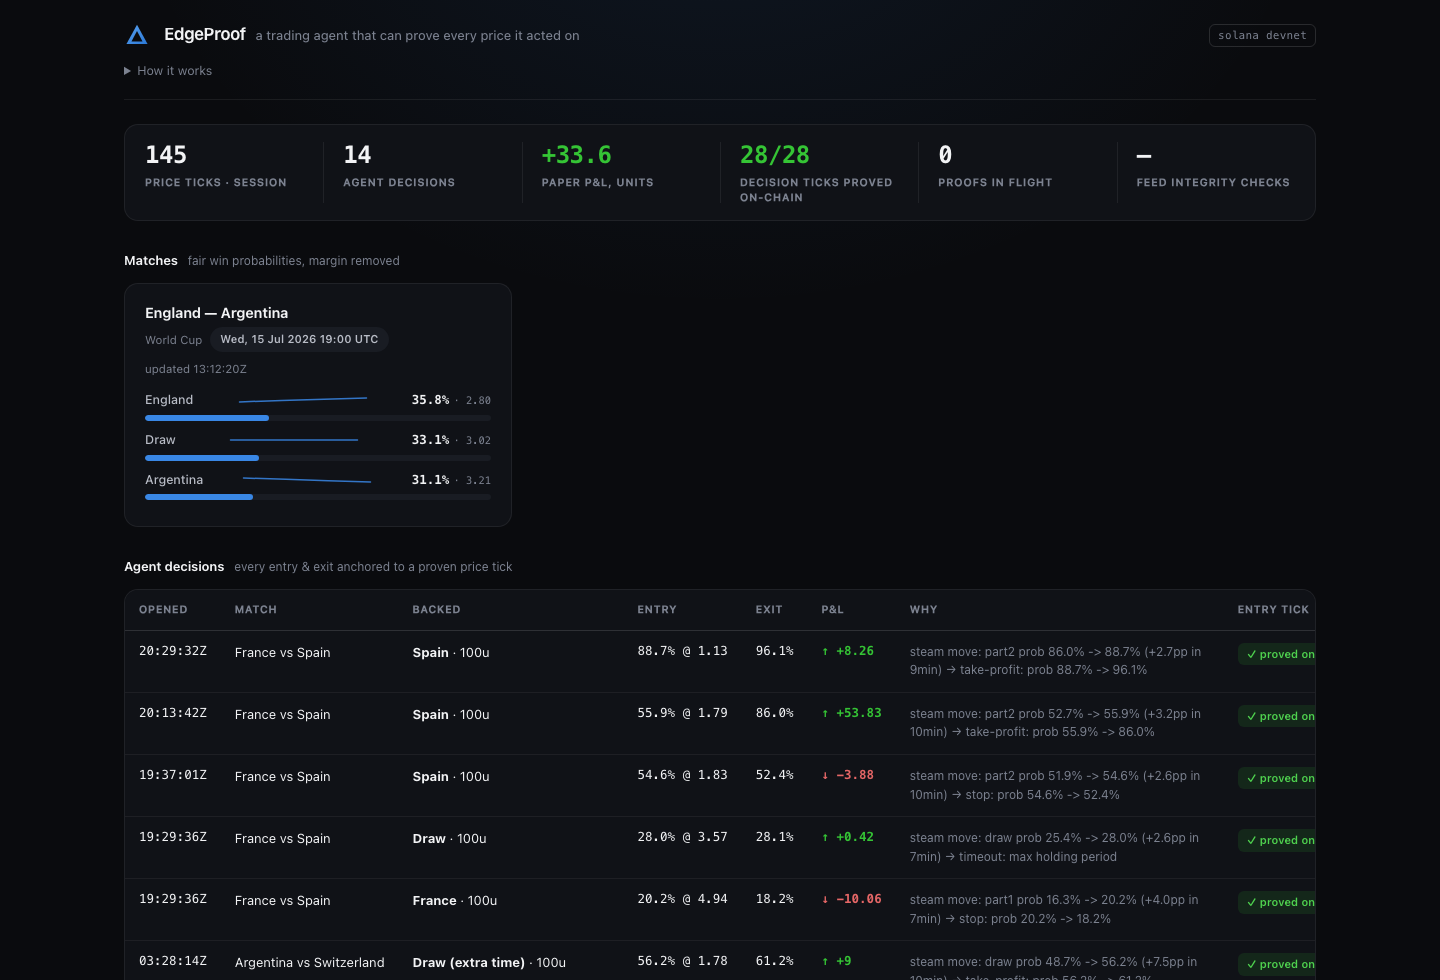
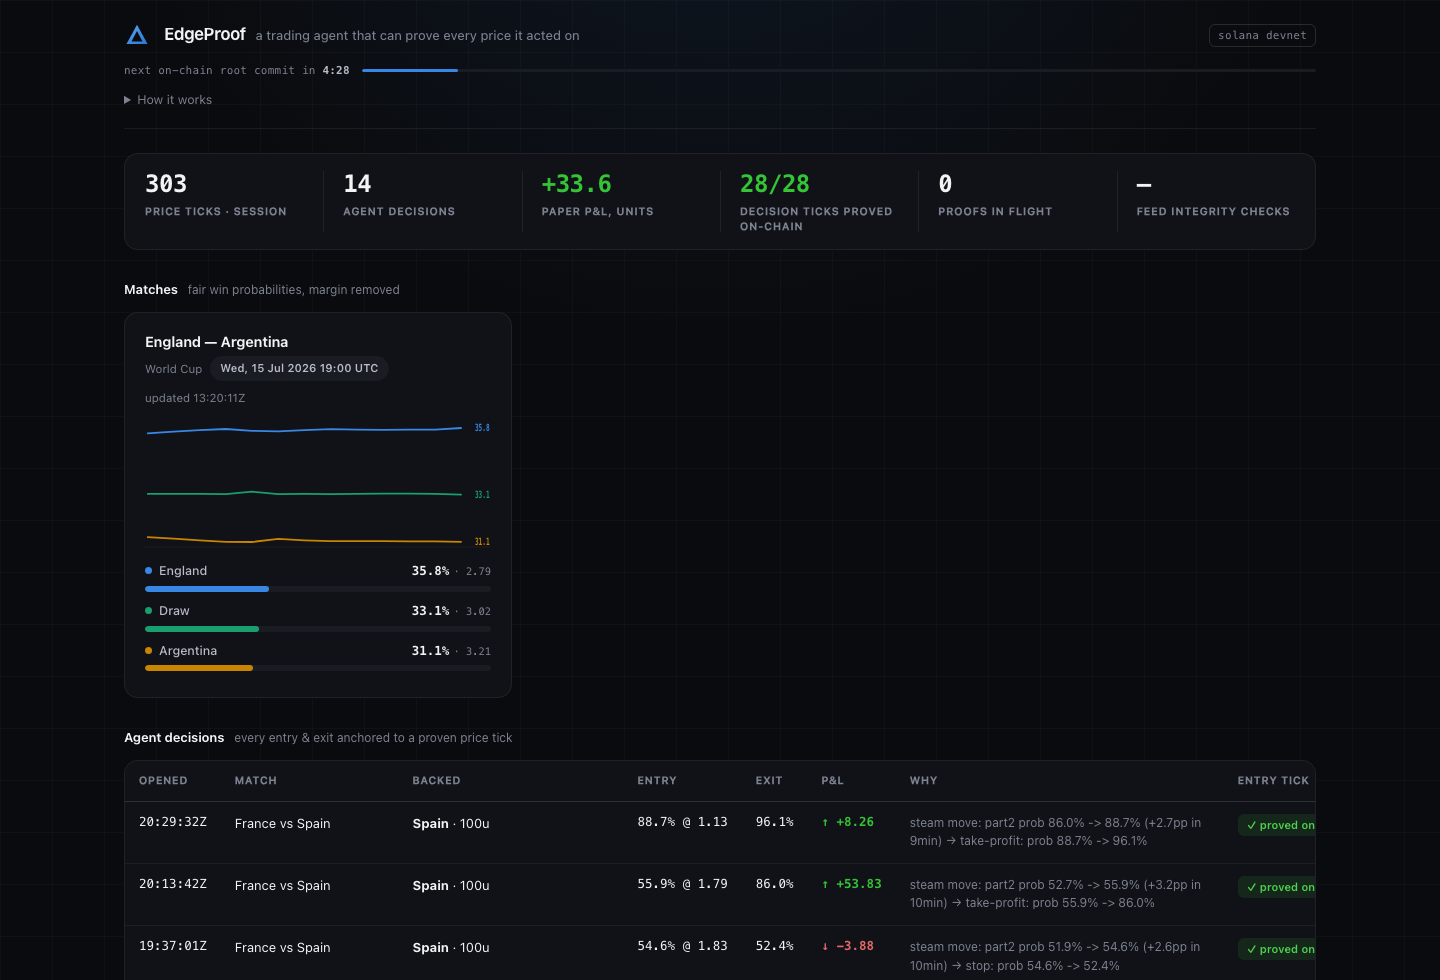
Design: Merkle-interval heartbeat, multi-line probability chart, categorical outcome colors, grid texture

diff --git a/public/index.html b/public/index.html
@@ -26,7 +26,9 @@
     --warn-chip: #8a6002;
     --down: #c53030;
     --down-chip-bg: rgba(208, 59, 59, 0.10);
+    --s1: #2a78d6; --s2: #1baf7a; --s3: #eda100;
     --glow: transparent;
+    --gridline: rgba(11, 11, 11, 0.028);
     --shadow: 0 1px 2px rgba(11,11,11,.04), 0 8px 24px -12px rgba(11,11,11,.10);
     --mono: ui-monospace, "SF Mono", SFMono-Regular, Menlo, Consolas, monospace;
     --sans: -apple-system, BlinkMacSystemFont, "Segoe UI", Inter, system-ui, sans-serif;
@@ -52,7 +54,9 @@
       --warn-chip: #fab219;
       --down: #e66767;
       --down-chip-bg: rgba(230, 103, 103, 0.12);
+      --s1: #3987e5; --s2: #199e70; --s3: #c98500;
       --glow: radial-gradient(60% 40% at 50% -10%, rgba(57,135,229,.10), transparent 70%);
+      --gridline: rgba(255, 255, 255, 0.025);
       --shadow: none;
     }
   }
@@ -60,8 +64,12 @@
   html { scrollbar-gutter: stable; }
   body {
     background: var(--plane);
-    background-image: var(--glow);
-    background-repeat: no-repeat;
+    background-image:
+      var(--glow),
+      linear-gradient(var(--gridline) 1px, transparent 1px),
+      linear-gradient(90deg, var(--gridline) 1px, transparent 1px);
+    background-size: auto, 52px 52px, 52px 52px;
+    background-repeat: no-repeat, repeat, repeat;
     color: var(--ink);
     font: 14px/1.5 var(--sans);
     -webkit-font-smoothing: antialiased;
@@ -95,6 +103,15 @@
   .pill.live::before { content: ""; width: 6px; height: 6px; border-radius: 50%; background: currentColor; animation: pulse 1.8s ease-in-out infinite; }
   @keyframes pulse { 50% { opacity: .3; } }
   .pill.soon { background: var(--surface-2); color: var(--ink-2); }
+  /* Merkle interval pulse — the heartbeat of the proof system */
+  .interval { width: 100%; display: flex; align-items: center; gap: 12px; margin-top: 2px; }
+  .interval .lbl { font: 500 11px var(--mono); color: var(--muted); letter-spacing: .02em; white-space: nowrap; }
+  .interval .lbl b { color: var(--ink-2); font-weight: 600; }
+  .int-track { flex: 1; height: 3px; background: var(--surface-2); border-radius: 2px; overflow: hidden; }
+  #int-fill { height: 100%; background: var(--accent); border-radius: 2px; transition: width 1s linear; }
+  .interval.flash #int-fill { background: var(--up-chip); }
+  .interval.flash .lbl { color: var(--up-chip); }
+
   .how { width: 100%; }
   .how summary { cursor: pointer; color: var(--muted); font-size: 12.5px; user-select: none; width: fit-content; }
   .how summary:hover { color: var(--ink-2); }
@@ -149,8 +166,11 @@
   .bar .row .name { color: var(--ink-2); font-weight: 500; }
   .bar .row .val { font: 600 12.5px var(--mono); font-variant-numeric: tabular-nums; }
   .bar .row .val small { color: var(--muted); font-weight: 400; margin-left: 4px; }
-  .bar .row .spark { flex: 1; margin: 0 12px; min-width: 40px; max-width: 130px; height: 16px; align-self: center; }
-  .bar .row .spark polyline { fill: none; stroke: var(--accent); stroke-width: 1.5; stroke-linejoin: round; stroke-linecap: round; opacity: .85; }
+  .hero-chart { width: 100%; height: 128px; margin: 4px 0 14px; display: block; }
+  .hero-chart polyline { fill: none; stroke-width: 1.8; stroke-linejoin: round; stroke-linecap: round; }
+  .hero-chart .base { stroke: var(--grid); stroke-width: 1; }
+  .hero-chart text { font: 600 10px var(--mono); }
+  .dot { display: inline-block; width: 7px; height: 7px; border-radius: 50%; margin-right: 7px; vertical-align: 1px; }
   .bar .track { background: var(--surface-2); border-radius: 3px; height: 6px; overflow: hidden; }
   .bar .fill { background: var(--accent); height: 100%; border-radius: 3px; transition: width .7s cubic-bezier(.4,0,.2,1); }
   .quiet { color: var(--muted); font-size: 13px; }
@@ -223,6 +243,10 @@
     <span class="pill live" id="replay-pill" style="display:none" title="Replaying a recorded live World Cup match through the real pipeline — every proof still verifies against the permanent on-chain roots">▶ replay of a recorded live match</span>
     <span class="chip-net">solana devnet</span>
   </div>
+  <div class="interval" title="TxODDS batches every odds update into 5-minute Merkle trees and commits each root to Solana — this is that cadence, live">
+    <span class="lbl" id="int-label">next on-chain root commit in <b>—</b></span>
+    <div class="int-track"><div id="int-fill" style="width:0%"></div></div>
+  </div>
   <details class="how">
     <summary>How it works</summary>
     <p>
@@ -290,16 +314,58 @@ function startLabel(f, l) {
   return `<span class="pill soon">${new Date(f.StartTime).toUTCString().slice(0, 22)} UTC</span>`;
 }
 
-function sparkline(series) {
-  if (!series || series.length < 3) return "";
-  const w = 130, h = 16, pad = 1.5;
-  let min = Math.min(...series), max = Math.max(...series);
-  if (max - min < 0.6) { const mid = (max + min) / 2; min = mid - 0.3; max = mid + 0.3; }
-  const pts = series.map((v, i) =>
-    `${(pad + (i * (w - 2 * pad)) / (series.length - 1)).toFixed(1)},${(h - pad - ((v - min) * (h - 2 * pad)) / (max - min)).toFixed(1)}`
-  ).join(" ");
-  return `<svg class="spark" viewBox="0 0 ${w} ${h}" preserveAspectRatio="none" aria-hidden="true"><polyline points="${pts}"/></svg>`;
+const SERIES = ["var(--s1)", "var(--s2)", "var(--s3)"];
+
+/* Multi-line probability chart with direct value labels, no axes clutter. */
+function heroChart(spark) {
+  if (!spark || !spark[0] || spark[0].length < 3) return "";
+  const w = 560, h = 128, padX = 4, padT = 8, padB = 6, labelW = 44;
+  const all = spark.flat().filter(Number.isFinite);
+  if (!all.length) return "";
+  let min = Math.min(...all), max = Math.max(...all);
+  if (max - min < 3) { const mid = (max + min) / 2; min = mid - 1.5; max = mid + 1.5; }
+  const X = (i, n) => padX + (i * (w - padX * 2 - labelW)) / (n - 1);
+  const Y = (v) => padT + (h - padT - padB) * (1 - (v - min) / (max - min));
+
+  const lines = spark.map((s, si) => {
+    const pts = s.map((v, i) => `${X(i, s.length).toFixed(1)},${Y(v).toFixed(1)}`).join(" ");
+    return `<polyline points="${pts}" stroke="${SERIES[si]}"/>`;
+  });
+
+  // direct labels at line ends, nudged apart so they never collide
+  const ends = spark
+    .map((s, si) => ({ si, v: s[s.length - 1], y: Y(s[s.length - 1]) }))
+    .sort((a, b) => a.y - b.y);
+  for (let i = 1; i < ends.length; i++) {
+    if (ends[i].y - ends[i - 1].y < 12) ends[i].y = ends[i - 1].y + 12;
+  }
+  const labels = ends.map((e) =>
+    `<text x="${w - 2}" y="${Math.min(h - 2, e.y + 3.5).toFixed(1)}" text-anchor="end" fill="${SERIES[e.si]}">${e.v.toFixed(1)}</text>`
+  );
+
+  return `<svg class="hero-chart" viewBox="0 0 ${w} ${h}" preserveAspectRatio="none" aria-hidden="true">
+    <line class="base" x1="0" y1="${h - 1}" x2="${w}" y2="${h - 1}"/>
+    ${lines.join("")}${labels.join("")}</svg>`;
 }
+
+/* Merkle-interval heartbeat: TxODDS commits a root every 5 UTC minutes. */
+function tickInterval() {
+  const P = 300_000;
+  const into = Date.now() % P;
+  const left = P - into;
+  const m = Math.floor(left / 60000), s = Math.floor((left % 60000) / 1000);
+  const bar = document.querySelector(".interval");
+  $("int-fill").style.width = ((into / P) * 100).toFixed(1) + "%";
+  if (left > P - 4000) {
+    bar.classList.add("flash");
+    $("int-label").innerHTML = "on-chain root committed ✓";
+  } else {
+    bar.classList.remove("flash");
+    $("int-label").innerHTML = `next on-chain root commit in <b>${m}:${String(s).padStart(2, "0")}</b>`;
+  }
+}
+setInterval(tickInterval, 1000);
+tickInterval();
 
 function proofChip(ref) {
   if (!ref) return '<span class="quiet">—</span>';
@@ -341,17 +407,16 @@ function render(state) {
     const bars = l ? l.names.map((n, i) => `
       <div class="bar">
         <div class="row">
-          <span class="name">${n}</span>
-          ${sparkline(l.spark && l.spark[i])}
+          <span class="name"><span class="dot" style="background:${SERIES[i]}"></span>${n}</span>
           <span class="val">${num(l.pct[i])}%<small>· ${num(l.odds[i], 2)}</small></span>
         </div>
-        <div class="track"><div class="fill" style="width:${Math.min(100, l.pct[i])}%"></div></div>
+        <div class="track"><div class="fill" style="width:${Math.min(100, l.pct[i])}%;background:${SERIES[i]}"></div></div>
       </div>`).join("")
       : '<div class="quiet">No prices yet — the oracle starts publishing closer to kick-off.</div>';
     return `<div class="card">
       <h3>${f.Participant1} — ${f.Participant2}</h3>
       <div class="meta"><span>${f.Competition}</span>${startLabel(f, l)}${l && l.period === "extra time" ? '<span class="pill soon">extra time</span>' : ""}${l ? `<span>updated ${fmtTime(l.ts)}</span>` : ""}</div>
-      ${bars}</div>`;
+      ${l ? heroChart(l.spark) : ""}${bars}</div>`;
   }).join("");
 
   const rows = state.positions;